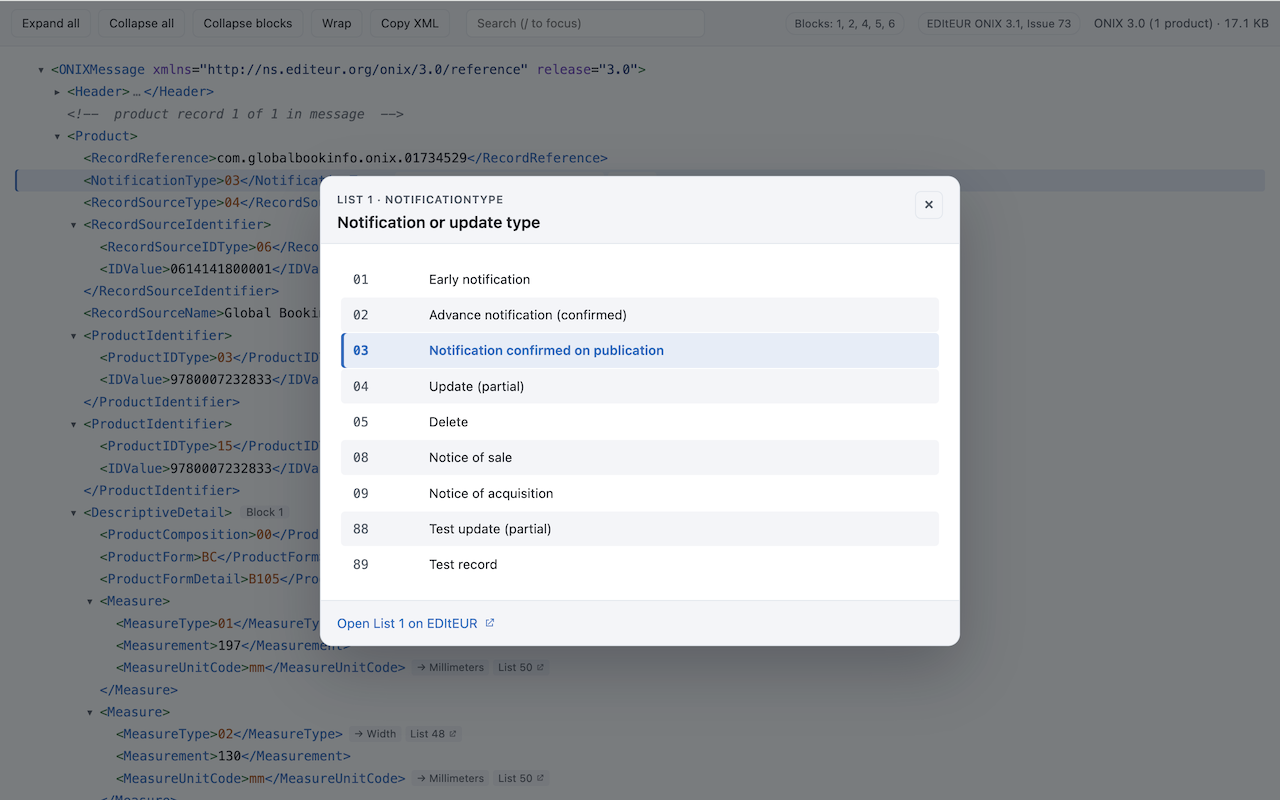
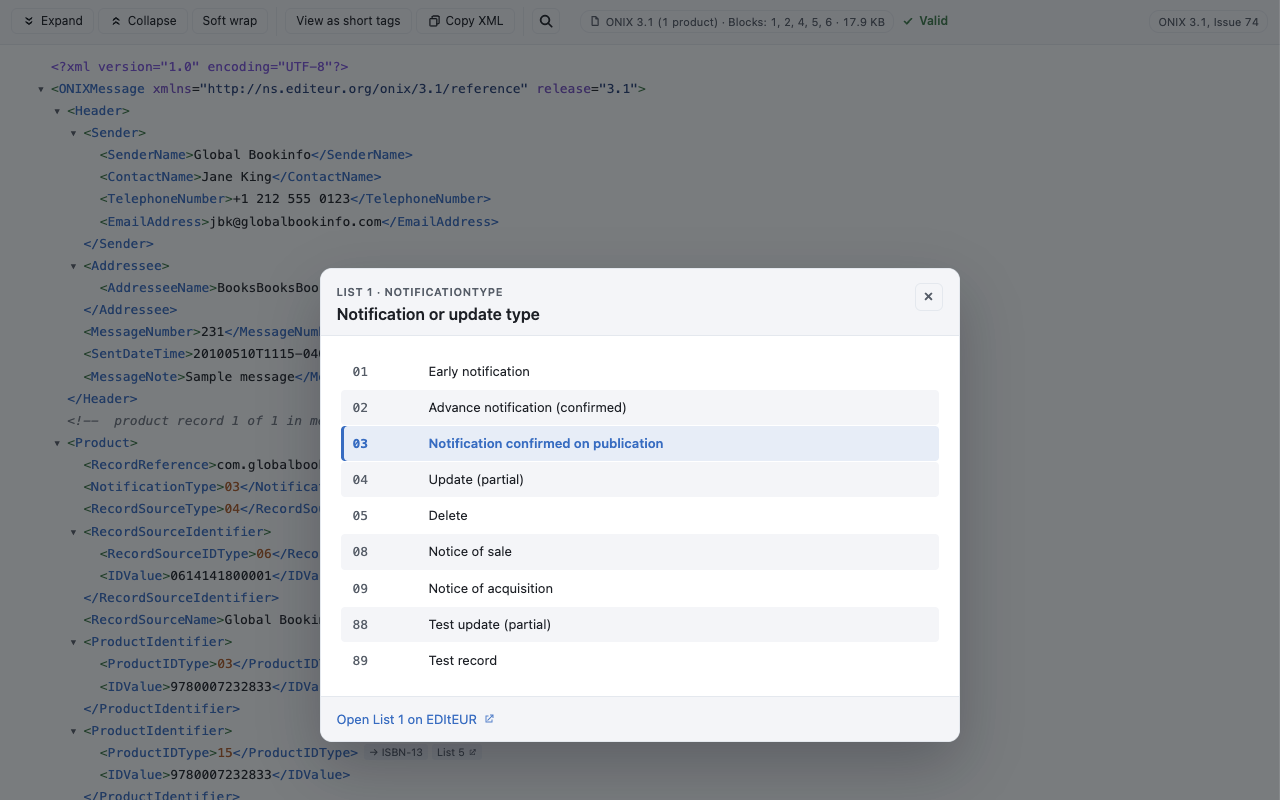
Refresh the store screenshots and name where each asset comes from
Both screenshots re-taken against 0.9.16: the stepped Expand/Collapse buttons
with their chevron icons, Soft wrap, the merged document pill reading
"ONIX 3.1 (1 product) · Blocks: 1, 2, 4, 5, 6 · 17.9 KB", the green Valid
state, and the code-list issue at the right.

Screenshots/ is the committed record of what the listing shows; dist/listing/
is staging for the generated assets only. Two screenshots used to be kept
there as well, and with nothing syncing the copies they fell two UI revisions
behind while the committed pair moved on — so the docs pointed at the stale
ones. CWS_LISTING.md and CLAUDE.md now say which asset comes from where.

diff --git a/CWS_LISTING.md b/CWS_LISTING.md
@@ -129,35 +129,38 @@ group in the dashboard under "Distribution" once the org is connected.
 
 ## Listing assets to prepare
 
-| Asset | Size | Required? |
+| Asset | Size | Where it comes from |
 |---|---|---|
-| Store icon | 128 × 128 PNG | Required (already in `icons/icon-128.png`) |
-| Small promo tile | 440 × 280 | Required |
-| Marquee promo tile | 1400 × 560 | Optional but recommended |
-| Screenshot(s) | 1280 × 800 or 640 × 400 | At least 1 required, up to 5 |
+| Store icon | 128 × 128 PNG | `Resources/icons/icon-128.png`, baked by `tools/render-icons.sh` |
+| Small promo tile | 440 × 280 | rendered from `promo-tile.svg` |
+| Marquee promo tile | 1400 × 560 | rendered from `marquee.svg` |
+| Screenshot(s) | 1280 × 800 | **`Screenshots/`** — committed, upload as-is |
 
-`dist/` is gitignored in full, so these assets are rebuilt locally rather than
-committed. The promo tile and marquee come from the SVGs at the repo root:
+**Screenshots live in `Screenshots/` and are version-controlled**, already at
+1280 × 800, so they upload without a resize step. Re-take them there whenever
+the UI changes and commit the result; that is the record of what the listing
+shows. `Screenshots/Main.png` is the tree, `Screenshots/CodeList.png` the
+code-list popup.
+
+The icon and the two promo tiles are **generated**, so they are not committed —
+`dist/` is gitignored in full. Rebuild them into `dist/listing/` when you need
+to upload:
 
 ```bash
+cp Resources/icons/icon-128.png dist/listing/icon-128.png
 rsvg-convert -w 440  -h 280 promo-tile.svg -o dist/listing/promo-tile-440x280.png
 rsvg-convert -w 1400 -h 560 marquee.svg    -o dist/listing/marquee-1400x560.png
 ```
 
-**Screenshots need re-taking.** The two in `dist/listing/` are from May: they
-predate the structure pane being hidden, the validation state, the dialect
-switch, the search collapsing to an icon, the merged document pill, and the
-Expand/Collapse buttons (which were three buttons then, named differently).
-Nothing in them matches the shipping toolbar.
+Do not keep screenshots in `dist/listing/` as well. There were two there from
+May, and because nothing kept them in sync with `Screenshots/` they quietly
+went two UI revisions out of date while the committed pair moved on.
 
-Worth grabbing, at 1280 × 800 (or 2× HiDPI then resized):
+Further shots worth adding, if you want more than two:
 
-1. A real ONIX file: the syntax-highlighted tree with auto-collapsed
-   `<Product>` summaries and code-list labels.
-2. The validation findings list over a file with real defects — the feature
+1. The validation findings list over a file with real defects — the feature
    with no equivalent anywhere else, and the reason to install.
-3. The code-list popup, which makes the bundled-lists claim concrete.
-4. Optionally the same record under both dialects, showing the switch.
+2. The same record under both dialects, showing the switch.
 
 ## Review notes (paste into "Notes for reviewer")
 

diff --git a/CLAUDE.md b/CLAUDE.md
@@ -56,10 +56,14 @@ onix-viewer/
 ├── tests/
 │   ├── run.js                      jsdom harness (187 tests, ~7s; takes a name filter)
 │   └── fixtures/                   XML samples per test category
+├── Screenshots/                    store screenshots, committed at 1280×800
+│   ├── Main.png                    the tree
+│   └── CodeList.png                the code-list popup
 ├── dist/                           build output — gitignored in full
-│   └── listing/                    CWS upload assets, rebuilt locally: icon, promo
-│                                   tile and marquee (rsvg-convert from the SVGs at
-│                                   the repo root), plus store screenshots
+│   └── listing/                    upload staging for the GENERATED assets only:
+│                                   icon-128 (copied from Resources/icons/) plus the
+│                                   promo tile and marquee (rsvg-convert from the
+│                                   SVGs at the repo root). No screenshots here.
 └── .github/workflows/
     ├── test.yml                    push/PR → tests → generated-file drift check
     └── release.yml                 tag-push → tests → zip → GitHub release
@@ -908,4 +912,5 @@ When adding behavior, prefer adding a fixture + assertion rather than a manual b
 - **Right-pane block changes** (only relevant if/when the structure view is re-enabled): live in `onix-blocks.js`. Uses native `<details>`/`<summary>` for collapse, no JS needed for that.
 - **Manifest changes**: update `Resources/manifest.json`. If the user-facing description changes, also update `CWS_LISTING.md` and the promo / marquee SVGs.
 - **Icon changes**: edit `icons/image.png` (the cropped 546×546 source-of-truth), then `tools/render-icons.sh` rebakes all seven PNG sizes.
+- **Store screenshots**: re-take into `Screenshots/` at 1280×800 and commit them. That directory is the record of what the listing shows — do not stage screenshots in `dist/listing/` as well. Two lived there once, and with nothing keeping the copies in sync they fell two UI revisions behind while the committed pair moved on. `dist/listing/` is for the generated assets only (icon, promo tile, marquee); the render commands are in `CWS_LISTING.md`.
 - **Tests**: never skip the failing-case fixtures. The malformed-XML test guards against a regression where a parse error would blank the page.
